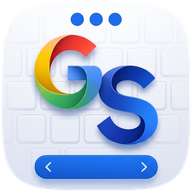
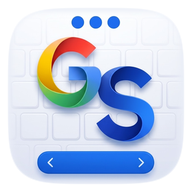
feat: добавить «Буфер обмена Samsung», поправить иконки приложения и логотип в README (#25)
* feat: добавить «Буфер обмена Samsung», поправить иконки приложения и логотип в README

* fix: убрать апострофы в XML и добавить Буфер обмена Samsung в README

---------

diff --git a/patches/src/main/kotlin/dev/jason/gboardpatches/patches/gboard/features/clipboard/GboardClipboardPrunePatch.kt b/patches/src/main/kotlin/dev/jason/gboardpatches/patches/gboard/features/clipboard/GboardClipboardPrunePatch.kt
@@ -17,6 +17,8 @@ import dev.jason.gboardpatches.patches.gboard.shared.runtimeabi.RuntimeCallEmitt
 import dev.jason.gboardpatches.patches.gboard.shared.runtimeabi.RuntimeCallId
 
 private val PRUNE_RUNTIME_CALL = RuntimeCallId.CLIPBOARD_RUNTIME_HANDLE_CUSTOM_PRUNE
+private val SAMSUNG_WHOLE_BLOCK_RUNTIME_CALL =
+    RuntimeCallId.CLIPBOARD_RUNTIME_SHOULD_KEEP_WHOLE_BLOCK
 
 internal val gboardClipboardPrunePatch = bytecodePatch(
     description = "調整 clipboard DB prune 策略"
@@ -31,6 +33,13 @@ internal val gboardClipboardPrunePatch = bytecodePatch(
             parameterTypes = emptyList()
         )
         mutableMethod.applyClipboardPruneDelegate()
+        val entityExtractMethod = findMutableMethodOrThrow(
+            classType = CLIPBOARD_PRUNE_CALLABLE_CLASS,
+            name = "c",
+            returnType = "Lxqp;",
+            parameterTypes = listOf("Lfpk;", "Lxqs;")
+        )
+        entityExtractMethod.applyClipboardSamsungWholeBlockGuard()
     }
 }
 
@@ -89,3 +98,71 @@ private val PRUNE_DELEGATE = """
 """.trimIndent()
 
 private val PRUNE_METHOD_DESCRIPTOR = RuntimeAbiCatalog.abi(PRUNE_RUNTIME_CALL).reference
+
+internal fun MutableMethod.applyClipboardSamsungWholeBlockGuard() {
+    requireExactClipboardTarget(
+        CLIPBOARD_PRUNE_CALLABLE_CLASS,
+        "c",
+        "Lxqp;",
+        listOf("Lfpk;", "Lxqs;"),
+    )
+    applyVerified(
+        VerifiedTransformationPlan(
+            targetName = "$CLIPBOARD_PRUNE_CALLABLE_CLASS->c(Lfpk;Lxqs;)Lxqp;",
+            classify = MutableMethod::classifyClipboardSamsungWholeBlockGuard,
+            mutate = { method ->
+                method.addInstructions(0, SAMSUNG_WHOLE_BLOCK_DELEGATE)
+                method
+            },
+        ),
+    )
+}
+
+private fun MutableMethod.classifyClipboardSamsungWholeBlockGuard(): VerifiedTransformationState {
+    val instructions = implementation?.instructions
+        ?: error("No instructions in $definingClass->$name")
+    val delegateCount = instructions.count {
+        it.isMethodReference(SAMSUNG_WHOLE_BLOCK_METHOD_DESCRIPTOR)
+    }
+    val completed = instructions.size >= 5 &&
+        instructions[0].isExactRangeInvoke(
+            SAMSUNG_WHOLE_BLOCK_METHOD_DESCRIPTOR,
+            p0Register(),
+            1,
+        ) &&
+        instructions[1].isOpcode("MOVE_RESULT") &&
+        (instructions[1] as? OneRegisterInstruction)?.registerA == 0 &&
+        instructions[2].isOpcode("IF_EQZ") &&
+        (instructions[2] as? OneRegisterInstruction)?.registerA == 0 &&
+        instructions.hasExactBranchTarget(2, 5) &&
+        instructions[3].isOpcode("CONST_4") &&
+        (instructions[3] as? OneRegisterInstruction)?.registerA == 0 &&
+        instructions[4].isOpcode("RETURN_OBJECT") &&
+        (instructions[4] as? OneRegisterInstruction)?.registerA == 0
+    return when (instructions.clipboardRuntimeReferenceCount()) {
+        0 -> VerifiedTransformationState.STOCK
+        1 -> if (delegateCount == 1 && completed) {
+            VerifiedTransformationState.PATCHED
+        } else {
+            VerifiedTransformationState.MALFORMED
+        }
+        else -> VerifiedTransformationState.MALFORMED
+    }
+}
+
+private val SAMSUNG_WHOLE_BLOCK_DELEGATE = """
+    ${RuntimeCallEmitter.invoke(SAMSUNG_WHOLE_BLOCK_RUNTIME_CALL, "p0 .. p0")}
+
+    move-result v0
+
+    if-eqz v0, :jasondev_samsung_clipboard_continue
+
+    const/4 v0, 0x0
+
+    return-object v0
+
+    :jasondev_samsung_clipboard_continue
+""".trimIndent()
+
+private val SAMSUNG_WHOLE_BLOCK_METHOD_DESCRIPTOR =
+    RuntimeAbiCatalog.abi(SAMSUNG_WHOLE_BLOCK_RUNTIME_CALL).reference

diff --git a/patches/src/main/kotlin/dev/jason/gboardpatches/patches/gboard/shared/runtimeabi/RuntimeAbi.kt b/patches/src/main/kotlin/dev/jason/gboardpatches/patches/gboard/shared/runtimeabi/RuntimeAbi.kt
@@ -77,6 +77,7 @@ internal enum class RuntimeCallId(internal val encodedAbi: String) {
     CLIPBOARD_RUNTIME_HANDLE_CUSTOM_PRUNE("Ldev/jason/gboardpatches/extension/clipboard/GboardClipboardRuntime;->handleCustomPrune(Ljava/lang/Object;)Z"),
     CLIPBOARD_RUNTIME_MAYBE_BUILD_LOADER_RESULT("Ldev/jason/gboardpatches/extension/clipboard/GboardClipboardRuntime;->maybeBuildLoaderResult(Ljava/lang/Object;)Ljava/lang/Object;"),
     CLIPBOARD_RUNTIME_RESOLVE_COLUMN_COUNT_OVERRIDE("Ldev/jason/gboardpatches/extension/clipboard/GboardClipboardRuntime;->resolveColumnCountOverride(Ljava/lang/Object;)Ljava/lang/Integer;"),
+    CLIPBOARD_RUNTIME_SHOULD_KEEP_WHOLE_BLOCK("Ldev/jason/gboardpatches/extension/clipboard/GboardClipboardRuntime;->shouldKeepWholeClipboardBlock(Ljava/lang/Object;)Z"),
     CUSTOM_THEME_RUNTIME_HANDLE_ACTIVITY_RESULT("Ldev/jason/gboardpatches/extension/customtheme/GboardCustomThemeOfficialImportRuntime;->handleActivityResult(Ljava/lang/Object;IILandroid/content/Intent;)Z"),
     CUSTOM_THEME_RUNTIME_INTERCEPT_PLUS("Ldev/jason/gboardpatches/extension/customtheme/GboardCustomThemeOfficialImportRuntime;->interceptPlus(Ljava/lang/Object;Ljava/lang/Object;Ljava/lang/Object;I)Z"),
     DEVICE_INTELLIGENCE_RUNTIME_APPLY_FLAG_VALUE("Ldev/jason/gboardpatches/extension/featureflags/GboardFeatureFlagsRuntime;->applyDeviceIntelligenceFlagValue(Ljava/lang/String;Ljava/lang/Object;)Ljava/lang/Object;"),

diff --git a/extensions/extension/src/main/java/dev/jason/gboardpatches/extension/clipboard/settings/GboardClipboardSettings.java b/extensions/extension/src/main/java/dev/jason/gboardpatches/extension/clipboard/settings/GboardClipboardSettings.java
@@ -30,6 +30,8 @@ public final class GboardClipboardSettings {
             "pref_clipboard_show_creation_time";
     public static final String PREF_KEY_CLIPBOARD_SHOW_ORDER_INDEX =
             "pref_clipboard_show_order_index";
+    public static final String PREF_KEY_CLIPBOARD_SAMSUNG_MODE =
+            "pref_clipboard_samsung_mode";
     public static final String PREF_KEY_CLIPBOARD_SHOW_SENSITIVE_CONTENT =
             "pref_clipboard_show_sensitive_content";
     public static final String PREF_KEY_CLIPBOARD_CARD_PREVIEW_LIMIT_ENABLED =
@@ -53,6 +55,7 @@ public final class GboardClipboardSettings {
     public static final boolean DEFAULT_CLIPBOARD_SHOW_COUNTDOWN = true;
     public static final boolean DEFAULT_CLIPBOARD_SHOW_CREATION_TIME = false;
     public static final boolean DEFAULT_CLIPBOARD_SHOW_ORDER_INDEX = true;
+    public static final boolean DEFAULT_CLIPBOARD_SAMSUNG_MODE = false;
     public static final boolean DEFAULT_CLIPBOARD_SHOW_SENSITIVE_CONTENT = false;
     public static final boolean DEFAULT_CLIPBOARD_CARD_PREVIEW_LIMIT_ENABLED = false;
     public static final String DEFAULT_CLIPBOARD_ORDER_INDEX_MODE =
@@ -96,6 +99,9 @@ public final class GboardClipboardSettings {
         editor = putBooleanPreferenceIfMissing(editor, preferences,
                 PREF_KEY_CLIPBOARD_SHOW_ORDER_INDEX,
                 DEFAULT_CLIPBOARD_SHOW_ORDER_INDEX);
+        editor = putBooleanPreferenceIfMissing(editor, preferences,
+                PREF_KEY_CLIPBOARD_SAMSUNG_MODE,
+                DEFAULT_CLIPBOARD_SAMSUNG_MODE);
         editor = putBooleanPreferenceIfMissing(editor, preferences,
                 PREF_KEY_CLIPBOARD_SHOW_SENSITIVE_CONTENT,
                 DEFAULT_CLIPBOARD_SHOW_SENSITIVE_CONTENT);
@@ -174,6 +180,19 @@ public final class GboardClipboardSettings {
     public static boolean readClipboardShowOrderIndex(SharedPreferences preferences) {
         return readBooleanPreference(preferences, PREF_KEY_CLIPBOARD_SHOW_ORDER_INDEX,
                 DEFAULT_CLIPBOARD_SHOW_ORDER_INDEX);
+    }
+
+    public static boolean readClipboardSamsungMode(Context context) {
+        SharedPreferences preferences = preferences(context);
+        ensureDefaults(preferences);
+        return readClipboardSamsungMode(preferences);
+    }
+
+    public static boolean readClipboardSamsungMode(SharedPreferences preferences) {
+        return readBooleanPreference(
+                preferences,
+                PREF_KEY_CLIPBOARD_SAMSUNG_MODE,
+                DEFAULT_CLIPBOARD_SAMSUNG_MODE);
     }
 
     public static boolean readClipboardShowSensitiveContent(Context context) {

diff --git a/extensions/extension/src/test/java/dev/jason/gboardpatches/extension/clipboard/GboardClipboardRuntimeBehaviorTest.java b/extensions/extension/src/test/java/dev/jason/gboardpatches/extension/clipboard/GboardClipboardRuntimeBehaviorTest.java
@@ -51,6 +51,31 @@ public final class GboardClipboardRuntimeBehaviorTest {
     }
 
     @Test
+    public void samsungModeToggleControlsWholeClipboardBlockGuard() throws Throwable {
+        Class<?> dataHandlerClass = targetLoader.loadClass("fqx");
+        Constructor<?> dataHandlerCtor = dataHandlerClass.getDeclaredConstructor(
+                Context.class, boolean.class, int.class);
+        dataHandlerCtor.setAccessible(true);
+        Object dataHandler = dataHandlerCtor.newInstance(context, Boolean.FALSE, Integer.valueOf(0));
+
+        Assert.assertFalse(GboardClipboardRuntime.shouldKeepWholeClipboardBlock(dataHandler));
+
+        context.getSharedPreferences(GboardClipboardSettings.PREF_FILE, Context.MODE_PRIVATE)
+                .edit()
+                .putBoolean(GboardClipboardSettings.PREF_KEY_CLIPBOARD_ENABLED, true)
+                .putBoolean(GboardClipboardSettings.PREF_KEY_CLIPBOARD_SAMSUNG_MODE, true)
+                .commit();
+        Assert.assertTrue(GboardClipboardRuntime.shouldKeepWholeClipboardBlock(dataHandler));
+
+        context.getSharedPreferences(GboardClipboardSettings.PREF_FILE, Context.MODE_PRIVATE)
+                .edit()
+                .putBoolean(GboardClipboardSettings.PREF_KEY_CLIPBOARD_ENABLED, false)
+                .putBoolean(GboardClipboardSettings.PREF_KEY_CLIPBOARD_SAMSUNG_MODE, true)
+                .commit();
+        Assert.assertFalse(GboardClipboardRuntime.shouldKeepWholeClipboardBlock(dataHandler));
+    }
+
+    @Test
     public void resolvesExact1853HandlesAndInstantTimestamp() throws Throwable {
         GboardClipboardRuntimeSupport support = new GboardClipboardRuntimeSupport();
         GboardClipboardRuntimeSupport.ReflectionHandles handles =

diff --git a/extensions/extension/src/main/java/dev/jason/gboardpatches/extension/clipboard/settings/GboardClipboardSettingsFeature.java b/extensions/extension/src/main/java/dev/jason/gboardpatches/extension/clipboard/settings/GboardClipboardSettingsFeature.java
@@ -127,6 +127,20 @@ public final class GboardClipboardSettingsFeature
                 generalRows.add(new GboardPatchesSettingsContract.ToggleRow(
                         GboardSettingsText.get(
                                 context,
+                                R.string.gboard_patches_clipboard_samsung_mode_title),
+                        GboardSettingsText.get(
+                                context,
+                                R.string.gboard_patches_clipboard_samsung_mode_summary),
+                        clipboardEnabled,
+                        GboardClipboardSettings.readClipboardSamsungMode(preferences),
+                        value -> preferences.edit()
+                                .putBoolean(
+                                        GboardClipboardSettings.PREF_KEY_CLIPBOARD_SAMSUNG_MODE,
+                                        value)
+                                .apply()));
+                generalRows.add(new GboardPatchesSettingsContract.ToggleRow(
+                        GboardSettingsText.get(
+                                context,
                                 R.string.gboard_patches_clipboard_show_sensitive_content_title),
                         GboardSettingsText.get(
                                 context,

diff --git a/extensions/extension/src/test/java/dev/jason/gboardpatches/extension/clipboard/GboardClipboardSettingsFeatureTest.java b/extensions/extension/src/test/java/dev/jason/gboardpatches/extension/clipboard/GboardClipboardSettingsFeatureTest.java
@@ -33,7 +33,15 @@ public final class GboardClipboardSettingsFeatureTest {
                 Arrays.asList("General", "Metadata", "Layout", "Retention"),
                 sectionTitles(sections));
         Assert.assertEquals("ToggleRow", sections.get(0).getItems().get(0).getClass().getSimpleName());
-        Assert.assertEquals(3, sections.get(0).getItems().size());
+        Assert.assertEquals(4, sections.get(0).getItems().size());
+        GboardPatchesSettingsContract.ToggleRow samsungRow =
+                (GboardPatchesSettingsContract.ToggleRow) sections.get(0).getItems().get(1);
+        Assert.assertEquals("Samsung Clipboard", samsungRow.getTitle());
+        Assert.assertFalse(samsungRow.isChecked());
+        Assert.assertTrue(preferences.contains(
+                GboardClipboardSettings.PREF_KEY_CLIPBOARD_SAMSUNG_MODE));
+        samsungRow.getToggleAction().accept(true);
+        Assert.assertTrue(GboardClipboardSettings.readClipboardSamsungMode(preferences));
         GboardPatchesSettingsContract.ToggleRow sensitiveRow =
                 (GboardPatchesSettingsContract.ToggleRow) findRow(
                         screen,

diff --git a/extensions/extension/src/main/java/dev/jason/gboardpatches/extension/settings/search/GboardSettingsSearchIndexData.java b/extensions/extension/src/main/java/dev/jason/gboardpatches/extension/settings/search/GboardSettingsSearchIndexData.java
@@ -170,6 +170,7 @@ final class GboardSettingsSearchIndexData {
             {27, R.string.gboard_patches_frosted_glass_faq_not_working_title, 0, 0},
             {27, R.string.gboard_patches_frosted_glass_faq_flickering_title, 0, 0},
             {28, R.string.gboard_patches_clipboard_title, R.string.gboard_patches_clipboard_summary, 1},
+            {28, R.string.gboard_patches_clipboard_samsung_mode_title, R.string.gboard_patches_clipboard_samsung_mode_summary, 0},
             {28, R.string.gboard_patches_clipboard_show_sensitive_content_title, R.string.gboard_patches_clipboard_show_sensitive_content_summary, 0},
             {28, R.string.gboard_patches_clipboard_card_preview_limit_title, R.string.gboard_patches_clipboard_card_preview_limit_summary, 0},
             {28, R.string.gboard_patches_pref_show_expiry_countdown, R.string.gboard_patches_pref_show_expiry_countdown_summary, 0},

diff --git a/extensions/extension/src/main/java/dev/jason/gboardpatches/extension/clipboard/runtime/GboardClipboardRuntimeSupport.java b/extensions/extension/src/main/java/dev/jason/gboardpatches/extension/clipboard/runtime/GboardClipboardRuntimeSupport.java
@@ -105,6 +105,16 @@ final class GboardClipboardRuntimeSupport {
                 clipboardPreferences(context));
     }
 
+    boolean shouldKeepWholeClipboardBlock() {
+        Context context = applicationContext();
+        if (context == null) {
+            return GboardClipboardSettings.DEFAULT_CLIPBOARD_SAMSUNG_MODE;
+        }
+        SharedPreferences preferences = clipboardPreferences(context);
+        return GboardClipboardSettings.readClipboardEnabled(preferences)
+                && GboardClipboardSettings.readClipboardSamsungMode(preferences);
+    }
+
     boolean shouldShowExpiryCountdown() {
         Context context = applicationContext();
         return context == null

diff --git a/extensions/extension/src/main/java/dev/jason/gboardpatches/extension/clipboard/runtime/hooks/GboardClipboardPruneHookAdapter.java b/extensions/extension/src/main/java/dev/jason/gboardpatches/extension/clipboard/runtime/hooks/GboardClipboardPruneHookAdapter.java
@@ -21,6 +21,15 @@ final class GboardClipboardPruneHookAdapter {
         this.maxCountFeature = maxCountFeature;
     }
 
+    boolean shouldKeepWholeClipboardBlock(Object receiver) {
+        return support.runSafely("check Samsung single-block clipboard mode", () -> {
+            if (receiver != null) {
+                support.registerContextFromReceiver(receiver);
+            }
+            return Boolean.valueOf(support.shouldKeepWholeClipboardBlock());
+        }, Boolean.FALSE).booleanValue();
+    }
+
     boolean handleCustomPrune(Object receiver) {
         return support.runSafely("run custom clipboard prune", () -> {
             if (receiver == null) {

diff --git a/extensions/extension/src/main/java/dev/jason/gboardpatches/extension/clipboard/runtime/GboardClipboardRuntime.java b/extensions/extension/src/main/java/dev/jason/gboardpatches/extension/clipboard/runtime/GboardClipboardRuntime.java
@@ -99,6 +99,10 @@ public final class GboardClipboardRuntime {
         return PRUNE_HOOK_ADAPTER.handleCustomPrune(receiver);
     }
 
+    public static boolean shouldKeepWholeClipboardBlock(Object receiver) {
+        return PRUNE_HOOK_ADAPTER.shouldKeepWholeClipboardBlock(receiver);
+    }
+
     public static void afterAdapterTrim(Object receiver) {
         UI_HOOK_ADAPTER.afterAdapterTrim(receiver);
     }

diff --git a/README.md b/README.md
@@ -3,7 +3,7 @@
 <picture>
   <source media="(prefers-color-scheme: dark)" srcset="docs/assets/logo-dark.png">
   <source media="(prefers-color-scheme: light)" srcset="docs/assets/logo.png">
-  <img src="docs/assets/logo.png" alt="GboardSamsung logo" width="128"/>
+  <img src="docs/assets/logo.png" alt="GboardSamsung logo" width="84"/>
 </picture>
 
 # GboardSamsung
@@ -16,7 +16,7 @@ Morphe patches that bring Samsung One UI ergonomics and polish to Gboard — wit
 
 [![Latest Release](https://img.shields.io/github/v/release/vortexnode/GboardSamsung?style=flat-square&label=release)](https://github.com/vortexnode/GboardSamsung/releases/latest)
 [![CI](https://github.com/vortexnode/GboardSamsung/actions/workflows/ci.yml/badge.svg)](https://github.com/vortexnode/GboardSamsung/actions/workflows/ci.yml)
-![Patches](https://img.shields.io/badge/patches-35-blue?style=flat-square)
+![Patches](https://img.shields.io/badge/patches-36-blue?style=flat-square)
 ![Target Gboard](https://img.shields.io/badge/Gboard-18.5.4-informational?style=flat-square)
 [![License: GPL-3.0](https://img.shields.io/badge/license-GPL--3.0-green?style=flat-square)](LICENSE)
 
@@ -55,6 +55,8 @@ Built as a focused downstream fork of [jasonwu1994/Gboard-patches](https://githu
 | --- | --- |
 | **Samsung Spacebar Gestures** | Swipe left/right on the spacebar to switch languages, long-press to move the cursor, and show optional `< Русский >` / `< English >` language chevrons via passive `ViewOverlay`. |
 | **Toolbar Round Chips** | Adaptive circular backgrounds behind 3–8 top toolbar icons (preserving original Google icons): matches Material You functional keys in Dynamic Color, and crisp white/neutral dark in standard themes. Includes an independent toggle for a fixed `38dp` Rambler-style circle behind the `⊞` menu button (preserving the native circle when expanded to `✕`). |
+| **Samsung Clipboard** | Optional toggle inside **Clipboard → General** that saves copied text as one single whole block like Samsung Keyboard — preventing Gboard from splitting copied text into separate URL, phone, email, and address cards while keeping images, pinning, retention, and all other clipboard features intact. |
+| **Custom App Icon** | Adaptive Light/Dark GboardSamsung launcher icon fitted cleanly inside One UI's squircle safe zone. |
 | **Full RU / EN Patches UI** | Complete Russian and English localization for the in-app Patches settings, search index, and Morphe Manager release notes. |
 | **Side-by-side Package Rename** | Installs cleanly alongside stock Gboard (`gboardsamsung.com.google.android.inputmethod.latin`) without root. |
 
@@ -76,13 +78,14 @@ Built as a focused downstream fork of [jasonwu1994/Gboard-patches](https://githu
 - **Root:** Not required.
 - **Updates:** New releases automatically publish `.mpp` bundles and update `patches-bundle.json` for Morphe Manager.
 
-## Active Patch Catalog (35 patches)
+## Active Patch Catalog (36 patches)
 
-**2 GboardSamsung-exclusive patches** + **33 curated upstream patches**. Expand any category below:
+**3 GboardSamsung-exclusive patches** + **33 curated upstream patches**. Expand any category below:
 
 <details>
-<summary><b>Samsung One UI Experience (2 exclusive patches)</b></summary>
+<summary><b>Samsung One UI Experience (3 exclusive patches)</b></summary>
 
+- **Custom App Icon** — Adaptive Light/Dark GboardSamsung launcher icon.
 - **Samsung Spacebar Gestures** — Swipe spacebar to switch languages, long-press for cursor control, and optional `< Language >` chevrons.
 - **Toolbar Round Chips** — Adaptive circular backgrounds for 3–8 toolbar icons (Dynamic Material You & standard themes) + separate toggle for the `⊞` menu button.
 
@@ -110,7 +113,7 @@ Built as a focused downstream fork of [jasonwu1994/Gboard-patches](https://githu
 <summary><b>Typing, Editing &amp; Keyboard Tools (9 patches)</b></summary>
 
 - **Clipboard Custom Character Limit** — Customize max character count per clipboard item.
-- **Clipboard Enhancements** — Extend retention time, item limit, preview lines, and pinning/timestamps.
+- **Clipboard Enhancements** — Includes **Samsung Clipboard** (whole-block copy mode without entity splitting), plus extended retention time, item limit, preview lines, and timestamps.
 - **Close Proactive Suggestions** — Show a dismiss button in proactive suggestions.
 - **Custom Symbols** — Dedicated custom symbols tab via long-press comma.
 - **Floating Web Search** — Open a floating web page directly from Gboard.
